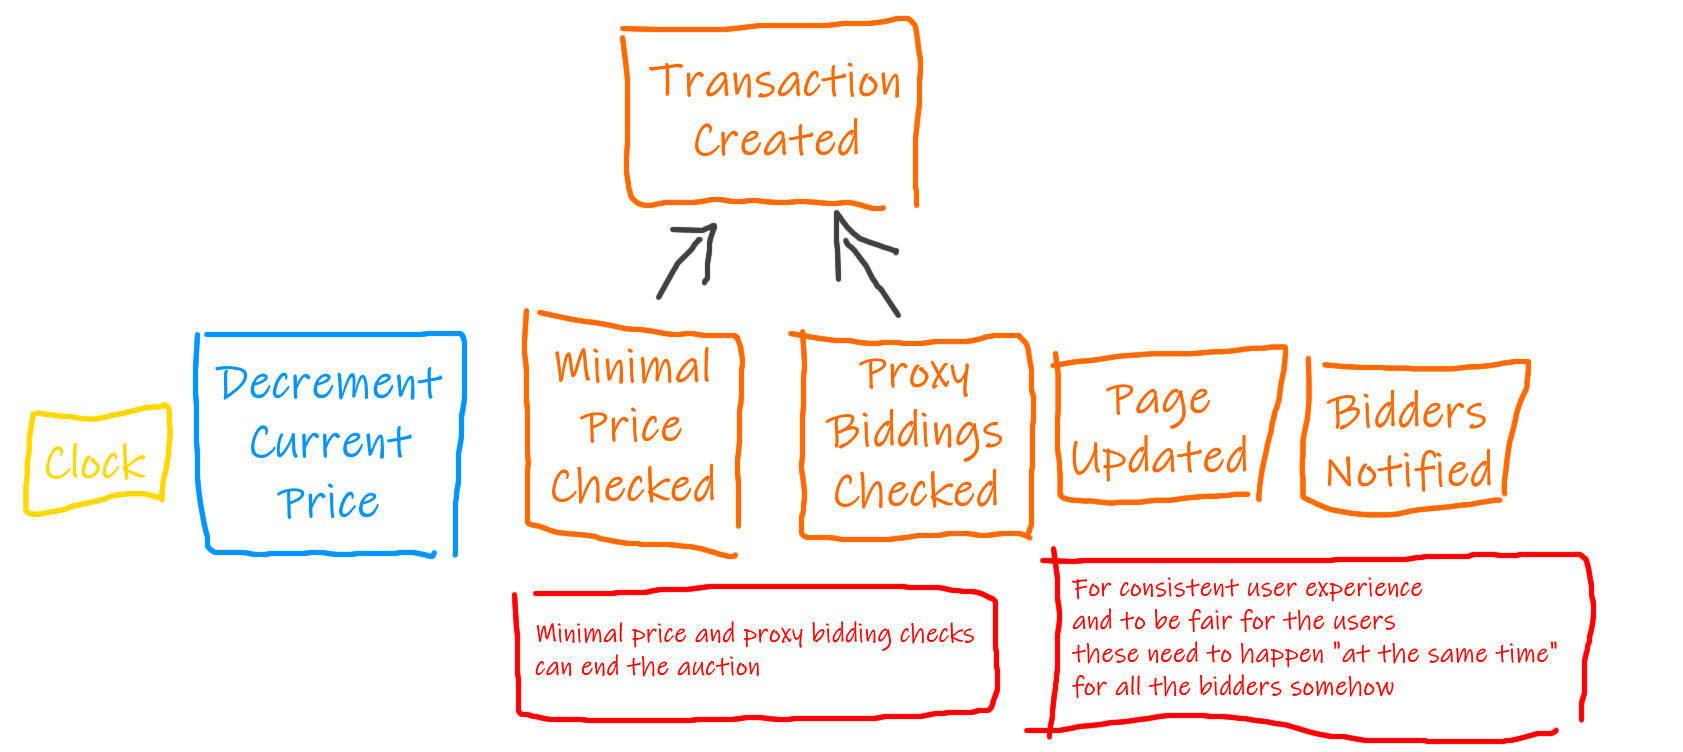
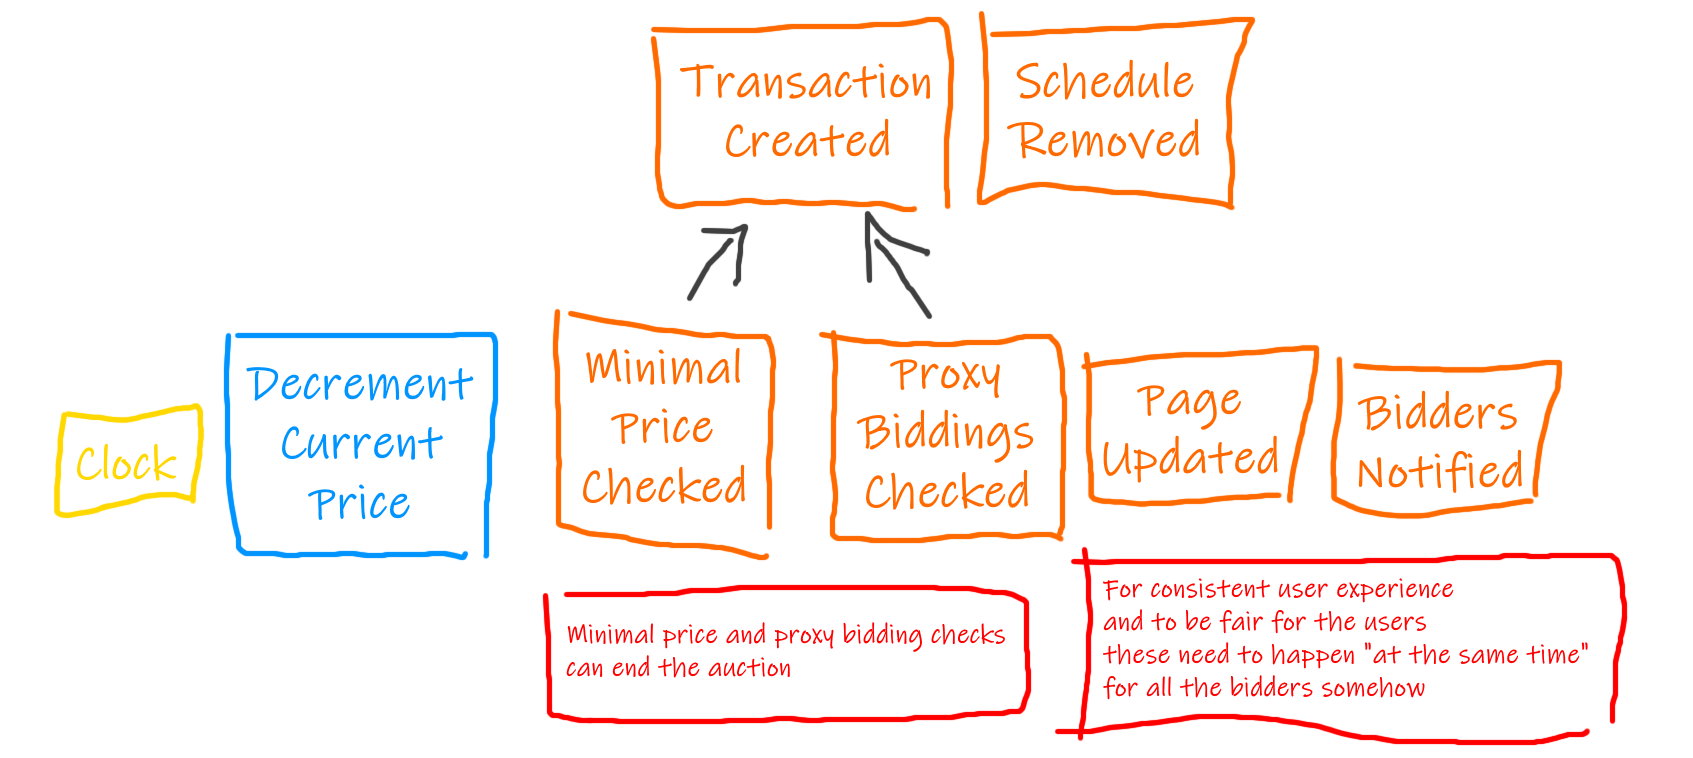
Highlight challenges and issues

Changed region(s): [[0.0, 0.0, 0.9887, 1.0]]

diff --git a/README.md b/README.md
@@ -41,7 +41,7 @@ I think these are the more interesting functionalities that are worth exploring 
 5. Bidder sets up a proxy bidding
 6. Bidder offers a bid and auction ends with transaction
 
-In order to simplify our analysis I will skip the moderation, transaction processing and commissions for now.
+In order to simplify our analysis I will skip the search, moderation, transaction processing and commissions for now.
 
 Since they're rather commonly implemented, I've chosen to ignore things like user registration and authentication.
 
@@ -59,7 +59,13 @@ How we store auctions really depends on how fast and to how broad bidder audienc
 
 Publishing an auction makes it visible to the bidders.
 
-In case the auction should start immediately we should ~~also start the clock immediately~~ defer to some kind of schedule anyway.
+**New challenges**
+
+* I will need a scheduler, possibly with a centralized clock
+
+**Changes when iterating**
+
+* In case the auction should start immediately we should ~~also start the clock immediately~~ defer to some kind of schedule anyway.
 
 #### Auction starts
 
@@ -67,7 +73,13 @@ In case the auction should start immediately we should ~~also start the clock im
 
 Auction can start immediately after it was polished or at a specific start date and time. That depends on how the auctioneer set it up.
 
-Wait, so there's a concept of a clock here? Needs to be synchronized? Central?
+**New challenges**
+
+* Updating the currently open auction page for all the current viewers will likely require an ongoing connection via something similar to Web Sockets so that the server can send the updates immediately. This will put a burden on the server when there's many concurrent viewers. 
+
+**Changes when iterating**
+
+* When handling a scheduled start auction command, the scheduler creates a new schedule to decrement the current price. Is this idea error-prone? Would it be better to setup the whole schedule for all decrements up front and potentially remove it when the auction ends? Probably it would also simplify the code and allow better SRP. Let's remove Decrement Scheduled then and redefine Auction Scheduled from the previous section.
 
 #### Bidder lists and views auctions
 
@@ -77,9 +89,9 @@ Most of the auction page is static really. Some text and some pictures. But the 
 
 We probably want to let the bidders know about price changes and that an auction has ended immediately while they're still on the auction page.
 
-As the current price decreases, more bidders will most likely be interested in that particular auction and so that page will get visited more. Did we just find a potential peak period?
+**New challenges**
 
-What about searching?
+* As the current price decreases, more bidders will most likely be interested in that particular auction and so that page will get visited more. Did we just find a potential peak period?
 
 #### Current price is decreased by the increment as the clock progresses
 
@@ -88,6 +100,11 @@ What about searching?
 If the previous current price was indeed a minimal price, the auction ends without any bids. If there's an eligible proxy bidding, the auction ends immediately with a transaction. Otherwise a new current price gets displayed on the auction page.
 
 In all these cases the bidders, or people who are viewing the auction page, should probably be notified.
+
+**New challenges**
+
+* For this system to remain fair, all the bidders should see the new price as close to the same time as possible. This adds to the argument for synchronizing the clock.
+* Minimal price and proxy bidding checks should be quick but will still require a non-zero amount of time. Maybe it's a good idea to lock the auction at every scheduled increment. This lock should not be noticed by the users.
 
 #### Bidder sets up a proxy bidding
 
@@ -103,9 +120,12 @@ The bid should not be lower than the minimal price. If the minimal price is hidd
 
 Once the auction ends we should immediately disable the option to submit a bidding.
 
-The challenge here is a race condition when possibly multiple bidders will hit the Buy now button at (close to) the same time. Adds to the argument for syncing the clock.
-
 Besides properly selecting the first one who decided to make a purchase we need to gracefully inform the bidders who managed to hit Buy now but still did not make it on time.
+
+**New challenges**
+
+* There is a race condition when possibly multiple bidders will hit the Buy now button at (close to) the same time. Adds to the argument for syncing the clock.
+* The API handling the Buy now button should expect peaks close to the scheduled current price increments for auctions with clock visible.
 
 ### User interface
 
@@ -113,7 +133,7 @@ I would like to have mobile and desktop clients which makes me want to put as mu
 
 ![](https://github.com/GrzegorzKozub/tulipany/raw/master/ui.png)
 
-Challenges:
+The challenges that I was able to see from drawing the UI were already identified, namely:
 
 * Clock synchronization that shows the same current price and time remaining to all the bidders 
 * Disabling the purchase options as soon as the auction ends
